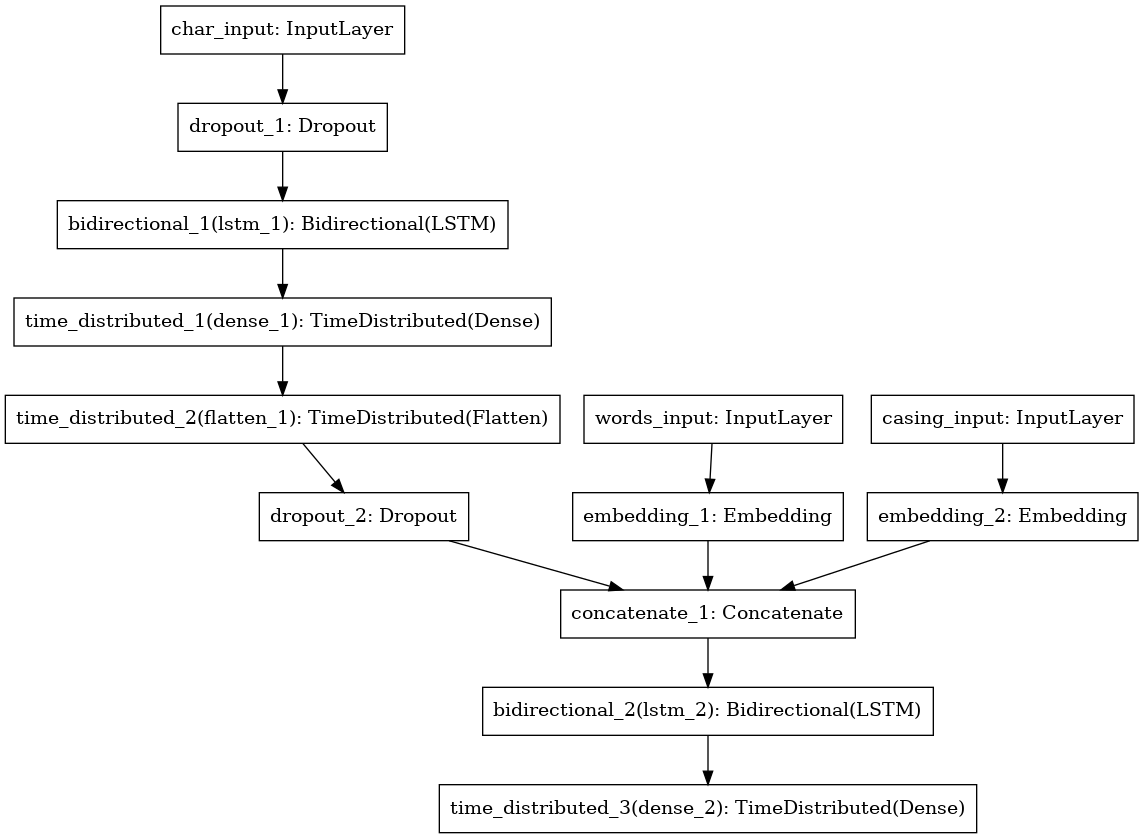
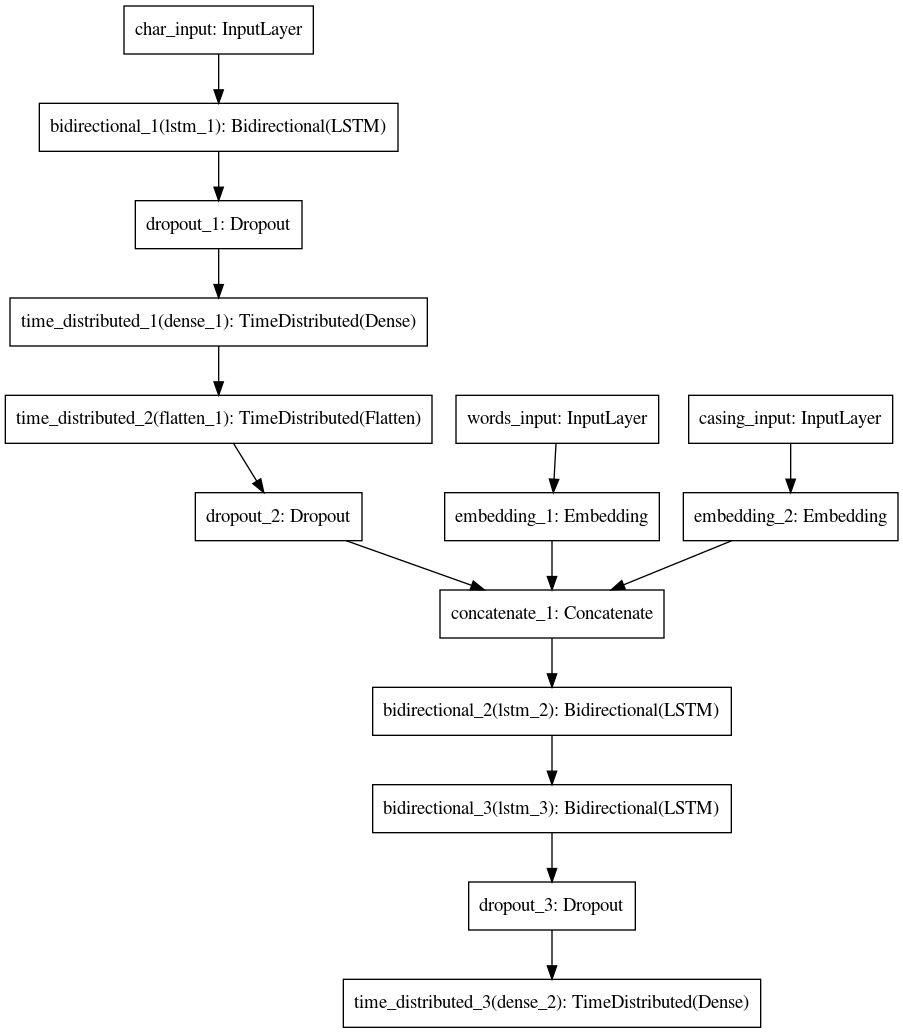
final

Changed region(s): [[0.0, 0.0, 1.0, 1.0], [0.7752, 0.3719, 0.9922, 0.4338]]

diff --git a/models.py b/models.py
@@ -31,6 +31,7 @@ def gen_CNN_RNN_model(wordEmbeddings,char2Idx,label2Idx,case2Idx):
     char = Dropout(0.5)(char)
     output = concatenate([words, casing, char])
     output = Bidirectional(LSTM(400, return_sequences=True, dropout=0.50, recurrent_dropout=0.25))(output)
+    output = Bidirectional(LSTM(400, return_sequences=True, dropout=0.50, recurrent_dropout=0.25))(output)
     output = TimeDistributed(Dense(len(label2Idx), activation='softmax'))(output)
     model = Model(inputs=[words_input, casing_input, character_input], outputs=[output])
     model.compile(loss='sparse_categorical_crossentropy', optimizer='nadam')
@@ -55,6 +56,7 @@ def gen_RNN_RNN_model(wordEmbeddings,caseEmbeddings,label2Idx):
     char = TimeDistributed(Flatten())(rnn1_out)
     char = Dropout(0.5)(char)
     output = concatenate([words, casing, char])
+    output = Bidirectional(LSTM(200, return_sequences=True, dropout=0.50, recurrent_dropout=0.25))(output)
     output = Bidirectional(LSTM(200, return_sequences=True, dropout=0.50, recurrent_dropout=0.25))(output)
     output = Dropout(0.5)(output)
     output = TimeDistributed(Dense(len(label2Idx), activation='softmax'))(output)
